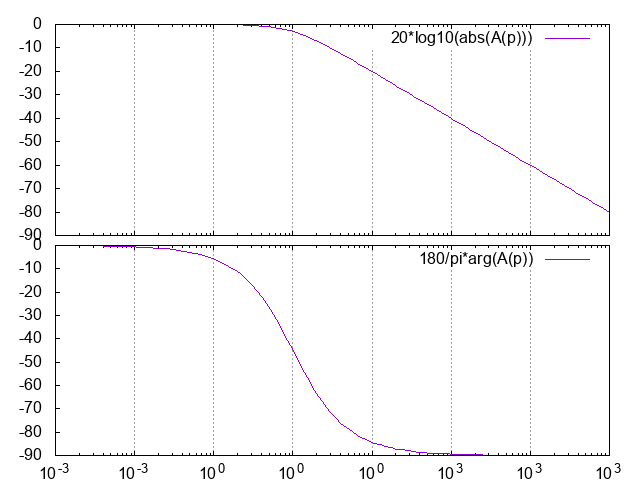
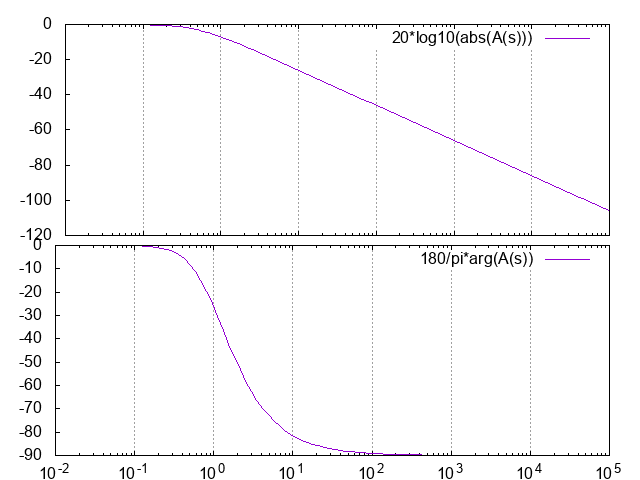
Bode from coefs

diff --git a/bode.dart b/bode.dart
@@ -5,7 +5,7 @@ import 'params.dart';
 
 void bode(
 		var exp, {
-		var laplace='p',
+		var laplace='s',
 		var format='png',
 		var labels=Labels.defaultLabels(),
 		var frm=0.01,
@@ -23,7 +23,7 @@ void bode(
 	"set terminal $format size ${width*scale},${height*scale};" +
 	"set output '$out.$format';"+
 	
-	"A($laplace) = $exp ;"+
+	"A($laplace) = $exp;"+
 	"set dummy $laplace;"+
 	
 	"set multiplot layout 2,1;"+
@@ -33,6 +33,7 @@ void bode(
 	"set xrange [$frm : $to];"+
 	"set ytics nomirror;"+
 	"set autoscale y;"+
+	"set xzeroaxis;"+
 	"set format x '';"+
 	
 	"set tmargin at screen 0.95;"+
@@ -43,18 +44,34 @@ void bode(
 	
 	"plot 20*log10(abs(A($laplace)));"+
 	
-	"set format x '10^{%S}';"+
+	"set format x '10^{%L}';"+
 	"set tmargin at screen 0.49;"+
 	"set bmargin at screen 0.05;"+
 	"set xlabel \"${labels.xlabel}\";"+
 	"set ylabel \"${labels.xlabel}\";"+
 	"plot 180/pi*arg(A($laplace));"+
-	
+
 	"unset multiplot;"+
 	"set output;";
-	
+		
 	
 	Process.start('gnuplot', ["-e", str]);
 }
 
+String fromCoefs(
+	var num,
+	var den) 
+{
+	var str = "(";
+	for ( var i = 0; i<num.length-1; i++)
+		str+="${num[i]}*s**${num.length-1-i}+";
+	str+=(num[num.length-1]==0?'0':'1');
+	str += ")/(";
+	for ( var i = 0; i<den.length-1; i++)
+		str+="${den[i]}*s**${den.length-1-i}+";
+	str+=(den[den.length-1]==0?'0':'1');
+	str += ")";
+	
+	return str;
+}
 

diff --git a/main.dart b/main.dart
@@ -5,7 +5,7 @@ import 'plot3d.dart';
 import 'params.dart';
 
 main() {
-	
+
 }
 
 void ex2D() => plot(
@@ -50,6 +50,14 @@ void ex3DFile() => plot3d(
 	);
 	
 void exBode() => bode(
-		'(1/(1+p/10)) * (1/(1+p/10000))',
+		'(1/(1+s/10)) * (1/(1+s/10000))',
 		scale:1.5
+	);
+void exBodeFromCoef() => bode(
+		fromCoefs(
+			[2.008, 0, 0, 0, 0],
+			[1, 1.307, 4.854, 4.249, 7.768, 4.249, 4.854, 1.307, 1]
+		),
+		frm:1e-4,
+		to:1e4
 	);
